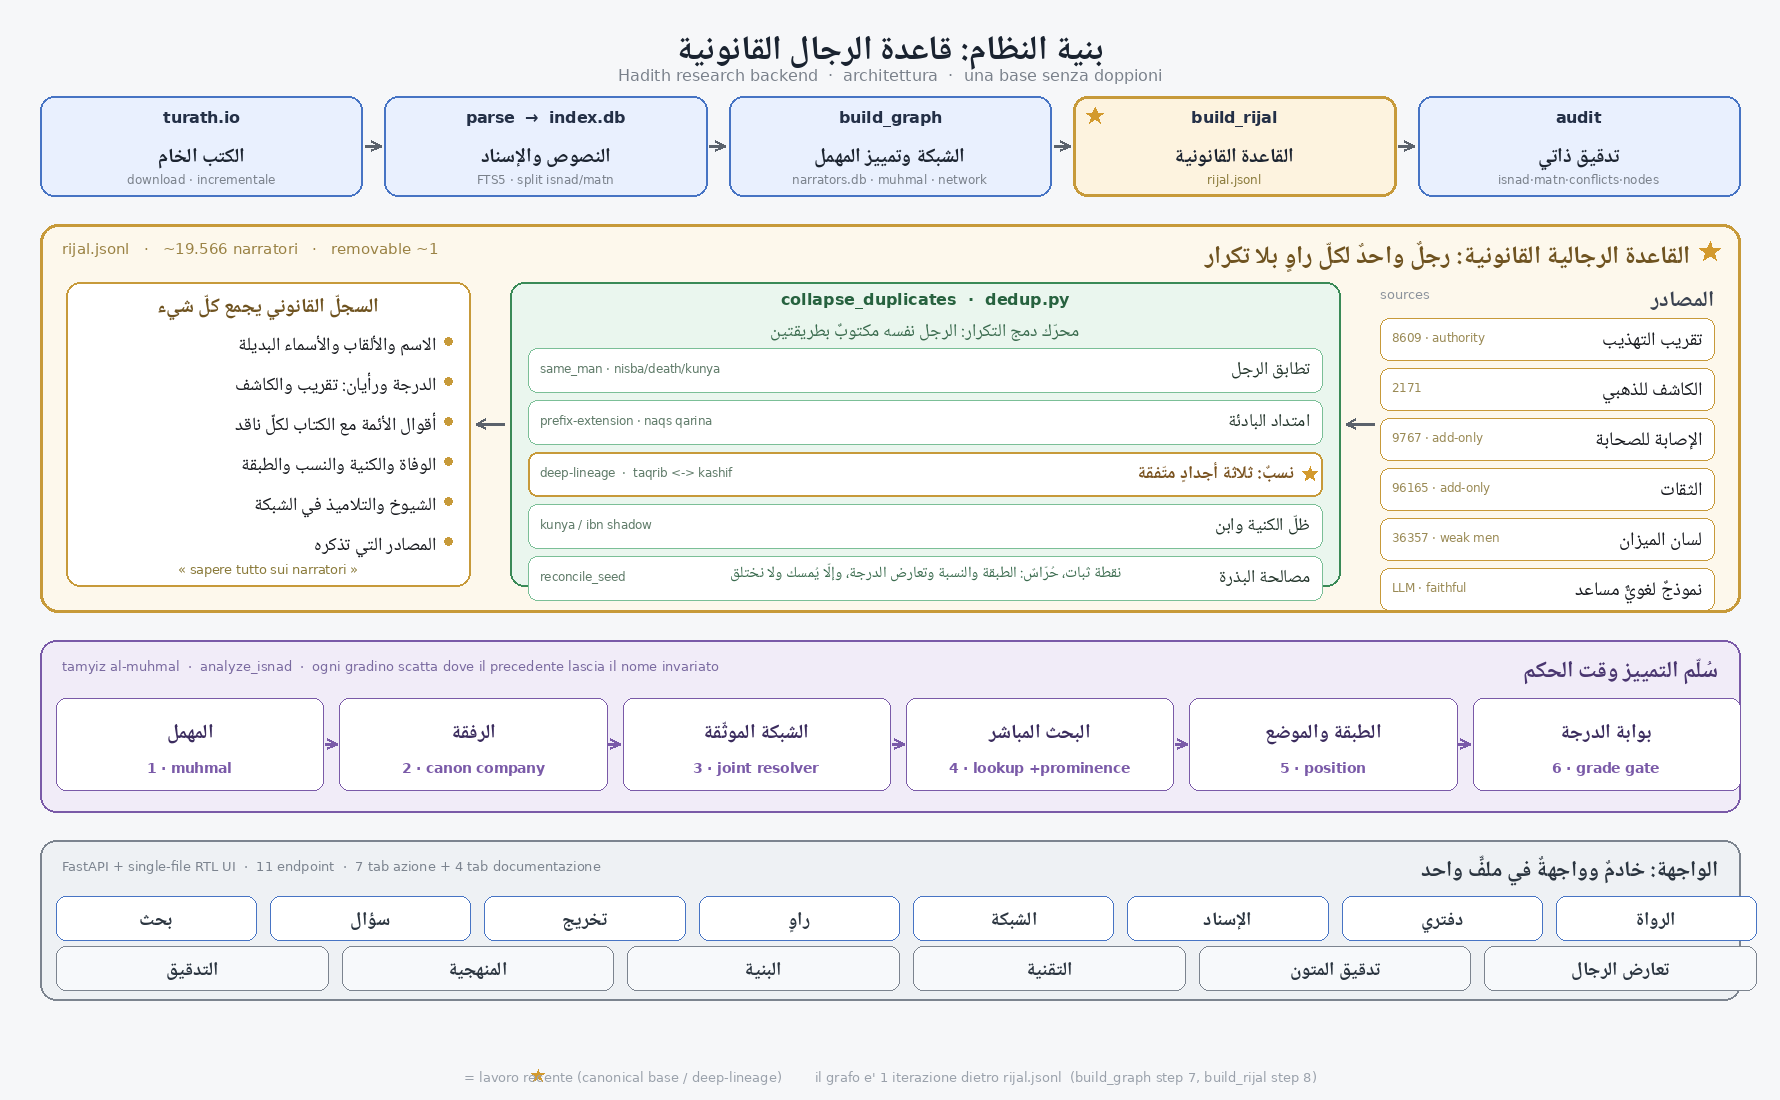
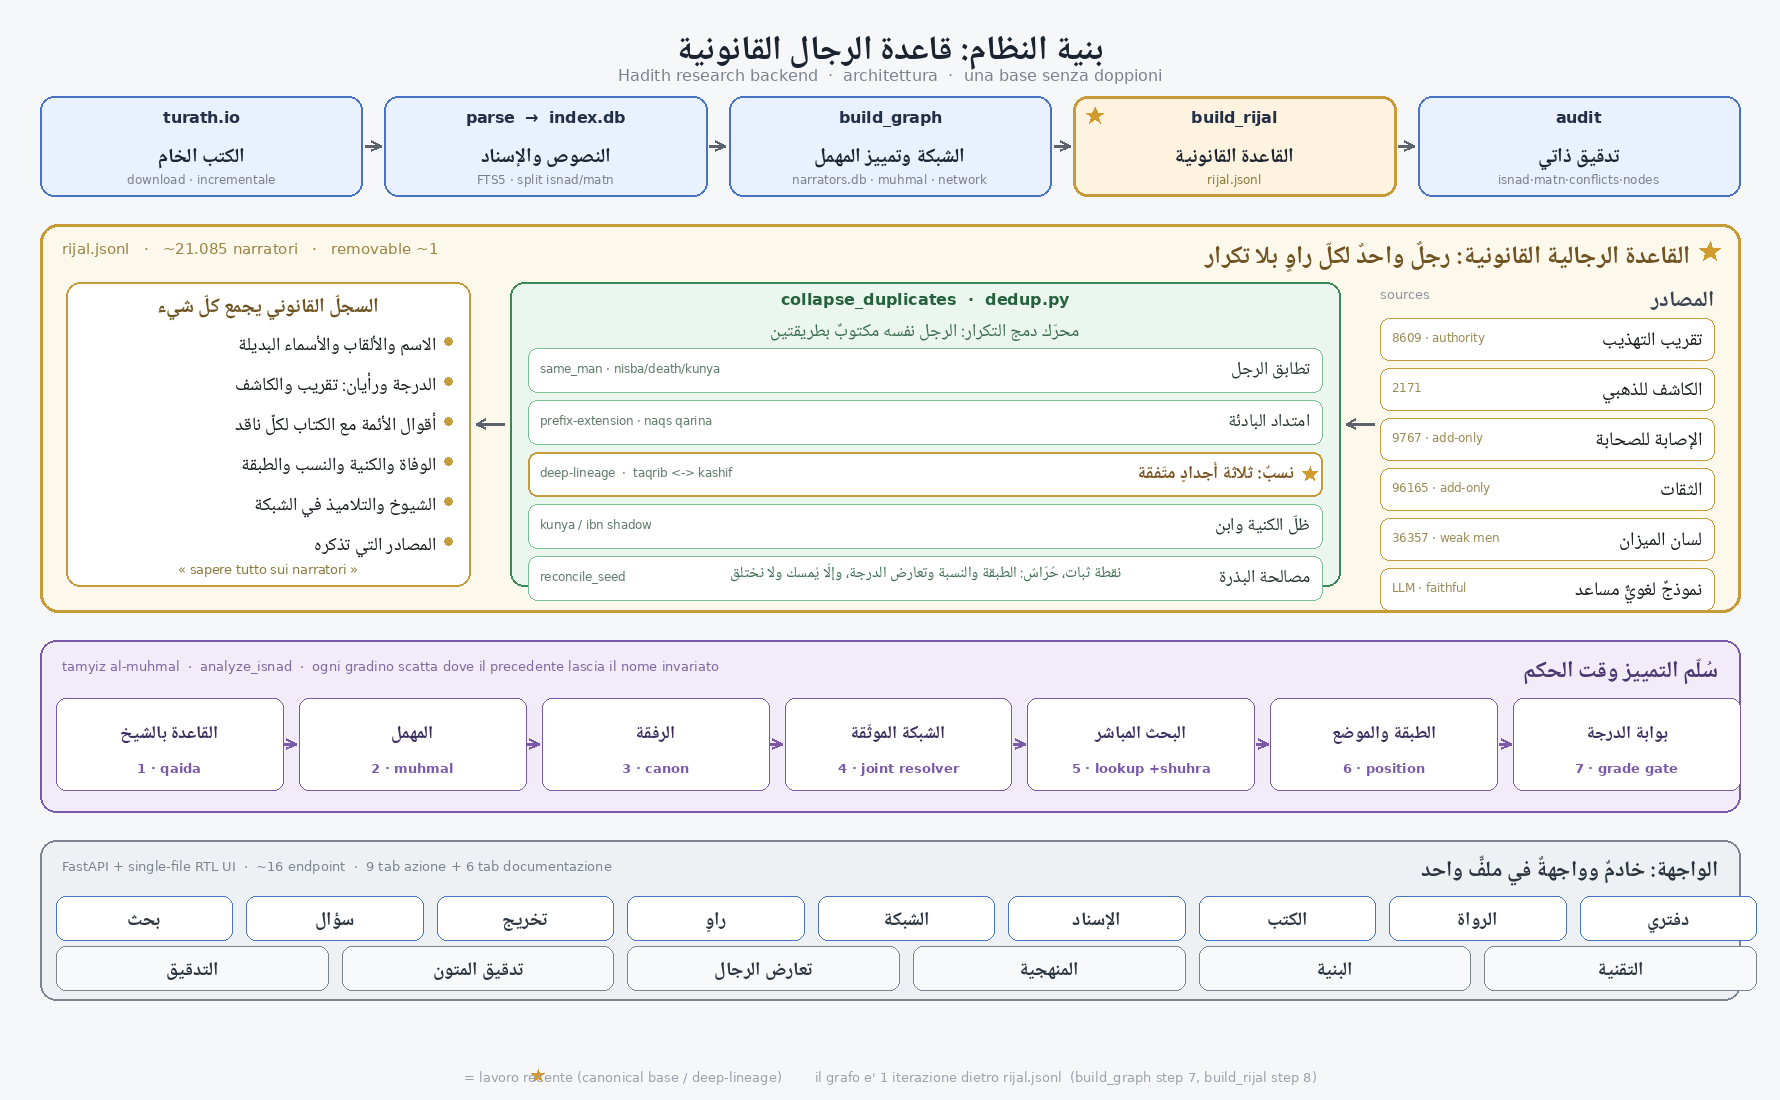
docs: refresh README + architecture figure + card counts to current state (#282)
The GitHub README and the architecture figure had drifted well behind the code;
the in-app reference cards were current on features but stale on a couple of counts.

README.md:
  - narrator base ~8.8k → canonical ~21k (no doublings; تقريب+الكاشف authority +
    الإصابة/الثقات/لسان/سير coverage, deduped); add the تمييز المهمل identification story
  - the [3]/[5]/[7] layers now name build_rijal/audit, the قواعد/network/prominence
    ladder, the self-audits, and build_rijal_llm
  - full tab list (action + study) replacing the old 8-mode line
  - endpoints table + the build_rijal section gain /narrators /books /sharh-books
    /audit /matn-audit /conflicts /coverage and the read-only diagnostics

docs/architecture_diagram.py + architecture.png (regenerated):
  - rijal ~19.566 → ~21.085; add the «القاعدة بالشيخ» rung to سُلّم التمييز;
    add the «الكتب» tab; refresh the endpoint/tab counts

app/static/index.html: التقنية card test count ~425/~450 → ~550; rijal نحو ٢١ ألف.

550 tests green, node --check clean.

Claude-Session: https://claude.ai/code/session_01XwBKkzgwN6aE2z3dBUJpcC

diff --git a/app/static/index.html b/app/static/index.html
@@ -1037,7 +1037,7 @@ function renderNarrator(d){
 
 // Browse (الرواة): a navigable index of EVERY graded narrator — pick a letter or a درجة, or type
 // to filter by name, then click a man to open his راوٍ card. Lets the user explore the رجال
-// without searching. Server-paged (/narrators) since the base is ~20k men; «المزيد» appends.
+// without searching. Server-paged (/narrators) since the base is ~21k men; «المزيد» appends.
 const browseState = {letter:null, grade:null, q:"", offset:0, limit:60, total:0};
 const AR_LETTERS = "ابتثجحخدذرزسشصضطظعغفقكلمنهوي".split("");
 let _brTimer = null;
@@ -1798,7 +1798,7 @@ const ARCHITECTURE = [
   {h:"٢) التحليل", p:[
     "النصُّ يأتي صفحاتٍ غير مُهيكلة؛ فنستخرج الأحاديث (بعلامات • [رقم] أو «رقم -»)، ونفصل الإسناد عن المتن، ونلتقط الحكم والباب، ونربط الشروح بالأرقام، ونبني تراجم الرجال من «تقريب التهذيب» و«الكاشف» (بأسمائهم وكُناهم وألقابهم)، ونوحّد صيغَ اسم الراوي الواحد لتجتمع في عقدةٍ واحدةٍ في الشبكة، ونفصل الراويَين المعطوفَين بالواو («الزهري وهشام» = رجلان لا عقدةٌ واحدة)، ونميّز الشخصَ من صلة القرابة (نحلُّ «أبيه/جده» وسائرَ صلات القرابة إلى الشخص الحقيقيّ من النسب، وإلّا أبقينا الصِّلةَ بعقدةٍ موسومةٍ «والد فلان» مرتبطةٍ به فلا يضيع الرابط). ونطبّع الحروف العربية للمطابقة."]},
   {h:"٣) الفهارس", p:[
-    "فهرسٌ لفظيّ (FTS) للمطابقة الحرفية، وفهرسٌ دلاليّ (متّجهات) للمعنى، وشبكةُ الرواة (شيوخ/تلاميذ من الأسانيد، تُبنى على تمريرتين: الأولى تَدمج المؤكَّد وتتعلّم صحبةَ كلّ راوٍ، والثانية تَحلّ المشترك بالسياق)، وشبكةٌ موثّقةٌ مُوجَّهة (شيخ → تلاميذه) مستخرَجةٌ من كتب الرجال للتمييز بالشيخ والتلميذ، وقاعدةُ درجات الرجال (نحو 20 ألف راوٍ مع كتب التغطية)."]},
+    "فهرسٌ لفظيّ (FTS) للمطابقة الحرفية، وفهرسٌ دلاليّ (متّجهات) للمعنى، وشبكةُ الرواة (شيوخ/تلاميذ من الأسانيد، تُبنى على تمريرتين: الأولى تَدمج المؤكَّد وتتعلّم صحبةَ كلّ راوٍ، والثانية تَحلّ المشترك بالسياق)، وشبكةٌ موثّقةٌ مُوجَّهة (شيخ → تلاميذه) مستخرَجةٌ من كتب الرجال للتمييز بالشيخ والتلميذ، وقاعدةُ درجات الرجال (نحو ٢١ ألف راوٍ مع كتب التغطية)."]},
   {h:"٤) الاسترجاع الهجين", p:[
     "يدمج اللفظيّ والدلاليّ بترتيبٍ تبادليّ (RRF) مع مرشّحات (الكتاب، الدرجة) — فتجد الحديث بلفظه أو بمعناه."]},
   {h:"٥) علوم الحديث", p:[
@@ -1844,7 +1844,7 @@ const TECH = [
     "app/rijal — narrators: index (RijalIndex: matching), graph (NarratorGraph: the network), canon (Canonicalizer: unification), grades (classify + RANKS), and a curated seed.jsonl.",
     "app/qa — hadith sciences: isnad, rulings (verdicts and ʿilal), takhrij, answer (grounded answering), dossier (aggregated cards), intent, llm.",
     "app/search — retrieval: index (HadithIndex/SharhIndex over FTS5), vectors (VectorIndex), embeddings (Embedder), hybrid (HybridSearcher: RRF fusion), grouping (report clustering).",
-    "app/routers — endpoints; app/main + app/config (settings); scripts/ — build tools; tests/ — ~450 tests."]},
+    "app/routers — endpoints; app/main + app/config (settings); scripts/ — build tools; tests/ — ~550 tests."]},
   {h:"Processing pipeline — scripts", p:[
     "scripts.ingest: download books from turath.io (rate limit, retry, resume via manifest.json) → data/raw/turath/{id}.json.",
     "scripts.parse: parse pages into structured JSONL (matn/isnad/grade/bab + sharh linking) → data/processed/*.jsonl and sharh/.",
@@ -1919,7 +1919,7 @@ const TECH = [
     "Fetching: turath_rate_per_sec (4), turath_max_retries (4), hadith_category_ids (6,7,8,9,10,26)."]},
   {h:"Build and tests", p:[
     "scripts.update: 1) checkout main 2) pull 3) deps 4) ingest 5) parse 6) index 7) build_graph 8) build_rijal — then folds in the optional LLM extraction (build_rijal_llm, gated on a configured engine) and runs the three review reports (audit_isnad, audit_matn, audit_conflicts) plus the incremental embedding. Every step is idempotent and resumable, and a build replaces the file atomically.",
-    "Testing: python -m pytest (~425 tests). CI: pytest + a UI syntax check (node --check) via GitHub Actions."]},
+    "Testing: python -m pytest (~550 tests). CI: pytest + a UI syntax check (node --check) via GitHub Actions."]},
   {h:"Maintaining the reference pages", p:[
     "Three pages stay in sync with the code on every update: «Methodology» (where each datum comes from and why it is trustworthy), «Architecture» (the overview), and «Technical» (this one — the full implementation detail).",
     "Rule: any change in behaviour or structure is accompanied by updating whatever these pages need, so they stay a living reference that never goes stale."]},

diff --git a/docs/architecture_diagram.py b/docs/architecture_diagram.py
@@ -108,7 +108,7 @@ gx0, gy0, gx1, gy1 = 40, 224, W - 40, 612
 box(gx0, gy0, gx1, gy1, "#fdf8ec", "#c79a3a", 3, 18)
 star(gx1 - 30, gy0 + 28, 11)
 A(gx1 - 50, gy0 + 12, "القاعدة الرجالية القانونية: رجلٌ واحدٌ لكلّ راوٍ بلا تكرار", arb(25), "#6f5320")
-L(gx0 + 22, gy0 + 16, "rijal.jsonl   ·   ~19.566 narratori   ·   removable ~1", la(15), "#9a8244")
+L(gx0 + 22, gy0 + 16, "rijal.jsonl   ·   ~21.085 narratori   ·   removable ~1", la(15), "#9a8244")
 
 # 2a — sources (right)
 sx1 = gx1 - 26
@@ -171,8 +171,9 @@ ly0, ly1 = 640, 812
 box(40, ly0, W - 40, ly1, "#f1ecf8", "#7a5aa8", 2, 16)
 A(W - 62, ly0 + 12, "سُلّم التمييز وقت الحكم", arb(23), "#4a3670")
 L(62, ly0 + 18, "tamyiz al-muhmal  ·  analyze_isnad  ·  ogni gradino scatta dove il precedente lascia il nome invariato", la(13), "#7a6aa0")
-rungs = [("المهمل", "1 · muhmal"), ("الرفقة", "2 · canon company"), ("الشبكة الموثّقة", "3 · joint resolver"),
-         ("البحث المباشر", "4 · lookup +prominence"), ("الطبقة والموضع", "5 · position"), ("بوابة الدرجة", "6 · grade gate")]
+rungs = [("القاعدة بالشيخ", "1 · qaida"), ("المهمل", "2 · muhmal"), ("الرفقة", "3 · canon"),
+         ("الشبكة الموثّقة", "4 · joint resolver"), ("البحث المباشر", "5 · lookup +shuhra"),
+         ("الطبقة والموضع", "6 · position"), ("بوابة الدرجة", "7 · grade gate")]
 rn = len(rungs)
 rgap = 16
 rbw = (W - 80 - rgap * rn) / rn
@@ -180,8 +181,8 @@ rx = 56
 ry0, ry1 = ly0 + 58, ly1 - 22
 for i, (t, cap) in enumerate(rungs):
     box(rx, ry0, rx + rbw, ry1, "#ffffff", "#7a5aa8", 1, 10)
-    Ac(rx + rbw / 2, ry0 + 18, t, arb(20), "#3b2c5e")
-    Lc(rx + rbw / 2, ry1 - 30, cap, lab(13.5), "#7a5aa8")
+    Ac(rx + rbw / 2, ry0 + 20, t, arb(18), "#3b2c5e")
+    Lc(rx + rbw / 2, ry1 - 30, cap, lab(13), "#7a5aa8")
     if i < rn - 1:
         arrow(rx + rbw + 2, (ry0 + ry1) / 2, rx + rbw + rgap - 2, (ry0 + ry1) / 2, "#7a5aa8")
     rx += rbw + rgap
@@ -190,9 +191,9 @@ for i, (t, cap) in enumerate(rungs):
 uy0, uy1 = 840, 1000
 box(40, uy0, W - 40, uy1, "#eef1f4", "#7c848f", 2, 16)
 A(W - 62, uy0 + 12, "الواجهة: خادمٌ وواجهةٌ في ملفٍّ واحد", arb(22), "#2b3540")
-L(62, uy0 + 18, "FastAPI + single-file RTL UI  ·  11 endpoint  ·  7 tab azione + 4 tab documentazione", la(13), "#7c848f")
-action = ["بحث", "سؤال", "تخريج", "راوٍ", "الشبكة", "الإسناد", "دفتري", "الرواة"]
-docs = ["التدقيق", "المنهجية", "البنية", "التقنية", "تدقيق المتون", "تعارض الرجال"]
+L(62, uy0 + 18, "FastAPI + single-file RTL UI  ·  ~16 endpoint  ·  9 tab azione + 6 tab documentazione", la(13), "#7c848f")
+action = ["بحث", "سؤال", "تخريج", "راوٍ", "الشبكة", "الإسناد", "الكتب", "الرواة", "دفتري"]
+docs = ["التدقيق", "تدقيق المتون", "تعارض الرجال", "المنهجية", "البنية", "التقنية"]
 
 
 def chips(items, y, col, bg):

diff --git a/README.md b/README.md
@@ -29,20 +29,25 @@ data/raw/turath/*.json
    │  [2] Parsing     app/parsing/     HTML → متن · إسناد · grade · شرح · citation
    ▼
 data/processed/*.jsonl
-   │  [3] Indexing    scripts/         index · embed · build_graph
+   │  [3] Indexing    scripts/         index · embed · build_graph · build_rijal · audit
    ▼
- ┌── Local indexes (sqlite; PostgreSQL + pgvector in production) ──────────────┐
- │  FTS5 hadith · FTS5 شروح · dense vectors · narrator graph · rijal gradings  │
- └─────────────────────────────────────────────────────────────────────────────┘
+ ┌── Local indexes (sqlite; PostgreSQL + pgvector in production) ──────────────────┐
+ │  FTS5 hadith · FTS5 شروح · dense vectors · narrator graph · documented network  │
+ │  canonical rijal base (~21k narrators, no doublings) + self-audits              │
+ └──────────────────────────────────────────────────────────────────────────────────┘
    │  [4] Retrieval   app/search/      lexical · semantic · hybrid (RRF fusion)
    │  [5] Sciences    app/qa/ · app/rijal/
-   │        answer (RAG) · takhrij (صيغ · صحابي · أخرجه) · isnad · rulings (أحكام) · rijal graph
+   │        answer (RAG) · takhrij (صيغ · صحابي · أخرجه) · isnad verdict (الحكم على الإسناد)
+   │        rijal identification (تمييز المهمل: قواعد بالشيخ · network · prominence)
+   │        self-audits (التدقيق · تدقيق المتون · تعارض الرجال) · علّة/شذوذ hints
    │  [6] LLM engine  app/qa/llm.py    off / local (Ollama) / remote (Claude) — via LiteLLM
-   ▼
- [7] FastAPI  app/main.py   →  /search · /hadith · /ask · /takhrij · /verify-isnad · /narrator · /notebook
-        │
-        └─ /app  →  static UI ⟷ native desktop window
-                    modes: بحث · سؤال · تخريج · راوٍ · الإسناد · دفتري · المنهجية · البنية
+   ▼                  (also build-time FAITHFUL extraction: scripts.build_rijal_llm)
+ [7] FastAPI  app/main.py   →  /search · /hadith · /ask · /takhrij · /verify-isnad
+        │              /narrator · /narrators · /books · /sharh-books · /notebook
+        │              /audit · /matn-audit · /conflicts · /coverage · /sources
+        └─ /app  →  static single-file RTL UI ⟷ native desktop window.  Tabs:
+            action  بحث · سؤال · تخريج · راوٍ · الإسناد · الشبكة · الكتب · الرواة · دفتري
+            study   التدقيق · تدقيق المتون · تعارض الرجال · المنهجية · البنية · التقنية
 ```
 
 The chain is the same everywhere: the system **retrieves and cites**, it never
@@ -64,13 +69,15 @@ brains or providers.
 | **Search** — lexical FTS (uncapped) · semantic · **hybrid (RRF)** | `/search?mode=` | ✅ |
 | **Ask (RAG)** — top hadith + **full شرح** + **rulings (أحكام)**, cited; LLM switch off/local/remote | `/ask?engine=` | ✅ |
 | **Takhrij** — *every* narration → variants (صيغ: بلفظه/بنحوه/بمعناه) · grouped by **Companion** · «أخرجه» · chains shown | `/takhrij` | ✅ |
-| **Isnad** — structure (سماع/عنعنة/تحويل), per-narrator grade, **continuity (اتصال)**, and a single bottom-line **verdict «الحكم على الإسناد»** (rijal + اتصال + عنعنة, with disclaimer) | `/verify-isnad` | ✅ |
-| **Narrator network (علم الرجال)** — شيوخ/تلاميذ from the chains, weighted; gradings (curated seed + full **تقريب التهذيب**, ~8.8k narrators, built by `scripts.build_rijal`) | `/narrator` | ✅ |
-| **Scholars' rulings (أحكام)** — ordered by طبقة, divergence flagged, «حسن صحيح» resolved by the number of chains | in `/ask`,`/takhrij` | ✅ |
+| **Isnad** — structure (سماع/عنعنة/تحويل), **narrator identification** (تمييز المهمل: a homonym is fixed by his شيخ via curated قواعد, the documented network, الرفقة, then prominence), per-narrator grade, **continuity (اتصال)**, and a single bottom-line **verdict «الحكم على الإسناد»** (rijal + اتصال + عنعنة, with disclaimer) | `/verify-isnad` | ✅ |
+| **Narrator base & network (علم الرجال)** — a **canonical base, one record per man, no doublings** (~21k narrators: تقريب + الكاشف authority, folded with الإصابة · الثقات · لسان · سير coverage, deduped by `dedup.collapse_duplicates`); شيوخ/تلاميذ from the chains, weighted; built by `scripts.build_rijal` (+ optional faithful LLM extraction) | `/narrator` · `/narrators` | ✅ |
+| **Library navigator (الكتب)** — browse the corpus structurally: collections → their كتب/أبواب → the hadiths under each, with «كتاب ← باب» nesting and per-book search; شروح browsable too | `/books` · `/sharh-books` | ✅ |
+| **Self-audits** — the system rescans its own output: **«التدقيق»** flags suspect isnad verdicts (متروك/كذاب/صحابي-mid-chain/مشترك), **«تدقيق المتون»** flags suspect texts, **«تعارض الرجال»** catches a grave-vs-trustworthy name collision | `/audit` · `/matn-audit` · `/conflicts` | ✅ |
+| **Coverage report** — how much of the chains the base covers (identified · مشترك · uncovered), weighted by chain position | `/coverage` | ✅ |
+| **Scholars' rulings (أحكام)** — ordered by طبقة, divergence flagged, «حسن صحيح» resolved by the number of chains; structural **علّة/شذوذ hints** on the gathered طرق | in `/ask`,`/takhrij` | ✅ |
 | Scholars' explanations (شروح) linked per hadith & quoted with attribution | in `/ask` | ✅ |
 | **Study notebook (دفتري)** — save any hadith / narrator / answer / isnad with a note; persists across rebuilds | `/notebook` | ✅ |
-| **Methodology (المنهجية)** — an in-app page explaining, for **every datum**, its source, how it is derived, its advantages and its limits | in `/app` | ✅ |
-| **Architecture (البنية)** — an in-app page: how the app is built (the 7 layers), where it can improve, and its limits. Kept in sync with the code | in `/app` | ✅ |
+| **Reference pages** — in-app, kept in sync with the code: **المنهجية** (every datum: its source, derivation, advantages, limits), **البنية** (how the app is built), **التقنية** (the exact implementation: modules, scripts, data files, endpoints) | in `/app` | ✅ |
 
 **Dev vs production.** Everything above runs **today** on your machine with a light
 stack: parsing is pure-stdlib and the indexes are **sqlite** — FTS5 for lexical
@@ -183,7 +190,11 @@ uvicorn app.main:app --reload
 | `GET /ask?q=…` | the most relevant hadith + grade + the **scholars' شرح**, the **scholars' rulings (أحكام)** on it ordered by era (صحّحه/ضعّفه…, divergence surfaced), cited (add `&engine=local\|remote` and optionally `&model=<any litellm id>` to synthesise with an LLM) |
 | `GET /takhrij?hadith_id=…` (or `q=…`) | **every** narration of the same report (lexical+semantic recall), grouped **by Companion (الصحابي)** then into distinct wordings (صيغ) labelled بلفظه/بنحوه/بمعناه — each Companion with an «أخرجه» summary, every chain shown |
 | `GET /verify-isnad?hadith_id=…` (or `isnad=…`) | parse the **chain of narrators**, flag سماع/عنعنة/تحويل, **grade each narrator** (رجال), check each link's **continuity (اتصال)** against the narrator network, and return a single bottom-line **verdict «الحكم على الإسناد»** that fuses the weakest-link grade + الاتصال + عنعنة (a study verdict on the apparent state of the men, not a full تصحيح — needs النظر في العلّة والشذوذ) |
-| `GET /narrator?name=…` | a narrator's place in the network (شبكة الرواة): his **شيوخ** (narrates from) and **تلاميذ** (narrate from him), weighted, plus his grade |
+| `GET /narrator?name=…` | a narrator's place in the network (شبكة الرواة): his **شيوخ** (narrates from) and **تلاميذ** (narrate from him), weighted, plus his grade and the critics' أقوال الأئمة |
+| `GET /narrators?letter=&grade=&q=` | **browse all narrators (الرواة)** — paged, with letter + درجة facets (powers the in-app browse tab) |
+| `GET /books` · `/books/{id}/chapters` · `/books/{id}/hadiths` | **library navigator (الكتب)** — collections → كتب/أبواب → the hadiths under each; `/sharh-books*` browses the commentaries |
+| `GET /audit` · `/matn-audit` · `/conflicts` | the **self-audits**: suspect isnad verdicts (التدقيق), suspect texts (تدقيق المتون), grave-vs-trustworthy name collisions (تعارض الرجال) — each example opens the case |
+| `GET /coverage` | how much of the chains the رجال base **covers** (identified · مشترك · uncovered), weighted by chain position |
 | `GET/POST/PATCH/DELETE /notebook` | your **study notebook (دفتري)**: save a hadith / narrator / answer / isnad with a personal note + tags, search them, edit, delete — stored in `data/notebook.db`, **never touched by index rebuilds** |
 | `GET /sources` | the books the app draws on (collections · شروح · rijal) with their **editions** (read from the downloaded files) — powers the books list on the «المنهجية» page |
 
@@ -240,21 +251,33 @@ It is deliberately conservative — a study verdict on the *apparent* state of t
 and the connection, **not a full تصحيح** (which also needs النظر في العلّة والشذوذ) and
 not a fatwa.
 
-**Full coverage (تقريب التهذيب + الكاشف).** Quality scales with how many narrators are
-graded. `scripts.build_rijal` downloads **تقريب التهذيب** (Ibn Ḥajar — one terse verdict
-per narrator, ~8.8k men covering the Six Books) as the **authority**, then folds in
-**الكاشف** (al-Dhahabī) as a second terse source that only **fills the narrators تقريب
-left ungraded** and **adds any it lacks** — never duplicating a man (so no false مشترك).
-It writes `data/rijal.jsonl`, which `/verify-isnad` **auto-loads on the next start** (no
-env var needed). With it in place, verdicts become decisive instead of «يُتوقَّف فيه».
-It runs automatically as the last step of `scripts.update` / `update.bat`, or on its own:
+**The canonical narrator base (~21k men, no doublings).** Quality scales with how many
+narrators are graded *and* with identifying the right man. `scripts.build_rijal` builds
+**one record per narrator** from **تقريب التهذيب** (Ibn Ḥajar — the terse authority over the
+Six Books) + **الكاشف** (al-Dhahabī, second opinion), then folds in coverage sources only to
+*fill gaps*, never to duplicate a man: **الإصابة** (Companions), **الثقات** (men outside the
+Six Books), **لسان الميزان** (the criticised), **سير أعلام النبلاء** (later narrators), plus
+the multi-critic **أقوال الأئمة** from **تهذيب الكمال / الجرح والتعديل**. A dedup engine
+(`app/rijal/dedup.py`) collapses the same man written two ways (تقريب↔الكاشف, a كنية vs an
+ism-led name, a deep-lineage نسب match) under طبقة/grade guards — so the base carries **no
+false «مشترك»**. It writes `data/rijal.jsonl`, which `/verify-isnad` **auto-loads on the next
+start**. It runs as the last steps of `scripts.update` / `update.bat` (build_graph → build_rijal
+→ audit), or on its own:
 
 ```bash
-python -m scripts.build_rijal            # download تقريب + extract + write data/rijal.jsonl
-# or grade still more narrators by merging a hand-made JSONL:
-python -m scripts.build_rijal --input narrators.jsonl
-# or point RIJAL_PATH at any رجال JSONL to override auto-discovery.
+python -m scripts.build_rijal                       # build/refresh data/rijal.jsonl
+python -m scripts.build_rijal --input narrators.jsonl   # merge a hand-made JSONL too
+python -m scripts.build_rijal_llm --mode rijal|chains   # optional FAITHFUL LLM extraction
+# read-only diagnostics: scripts.audit_isnad · audit_coverage · probe_name · peek_name_chains
 ```
+
+**Identifying the man, not just grading a name (تمييز المهمل).** A chain rarely spells a
+narrator out, so the verdict identifies him **from the chain before grading**: a homonym is
+fixed by his **شيخ** through curated **قواعد** («سفيان عن الأعمش» = الثوري), the **documented
+شيخ→تلميذ network** (تهذيب/الجرح/الثقات), the surrounding **company (الرفقة)**, then a
+**prominence** prior — and when the text genuinely cannot decide, the node is **held «مشترك»,
+never guessed** (لا نختلق). The whole corpus is then **re-audited** (`/audit`, `/conflicts`,
+`/coverage`) so every improvement is measured.
 
 ## Data source, attribution & ethics
 